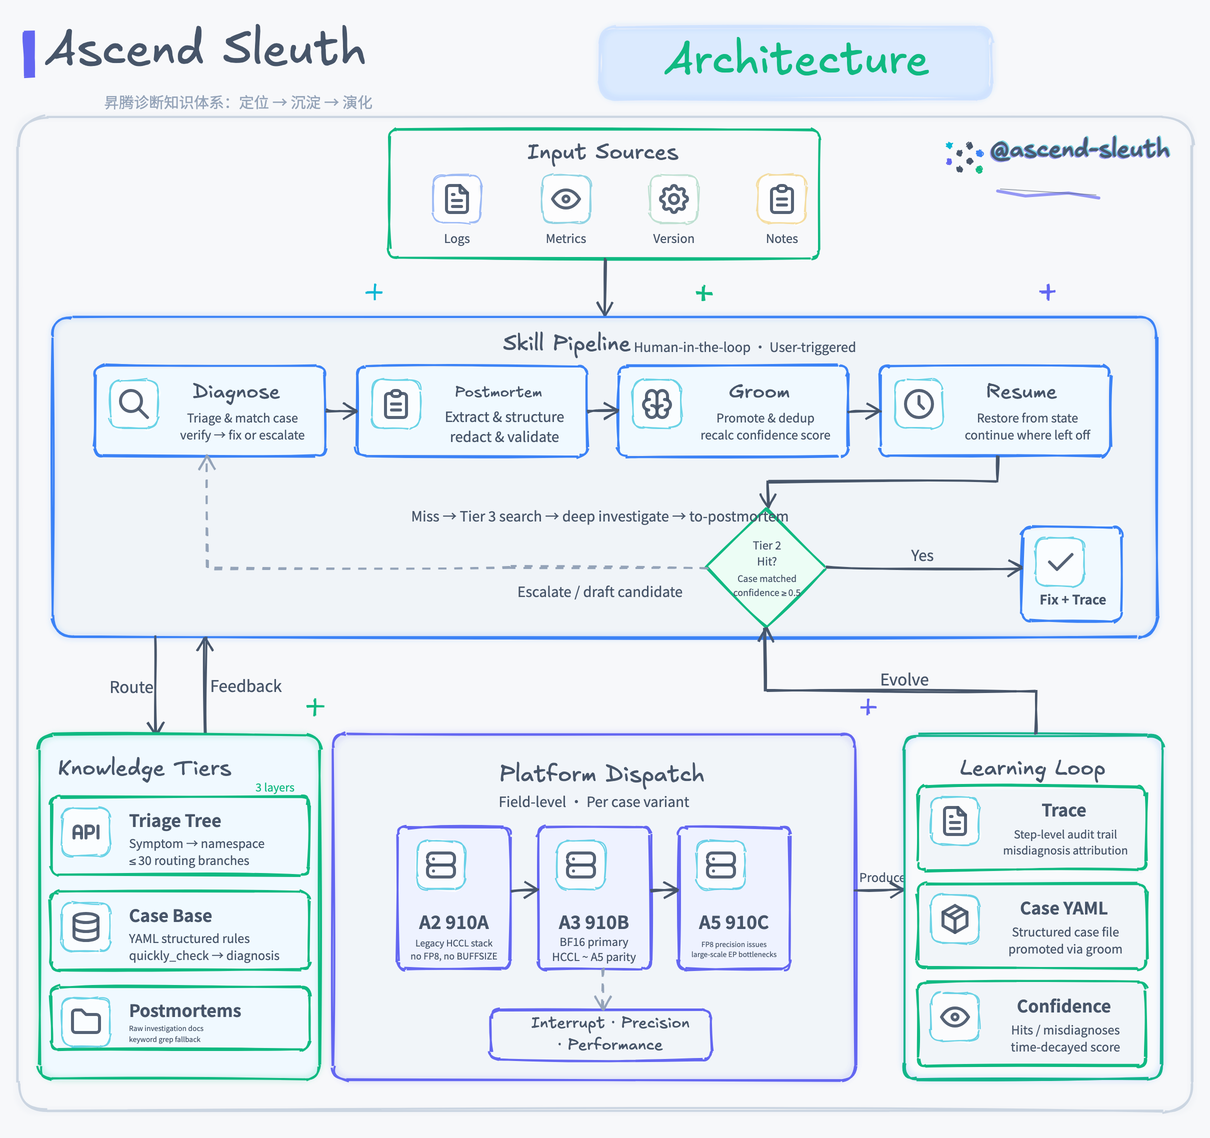
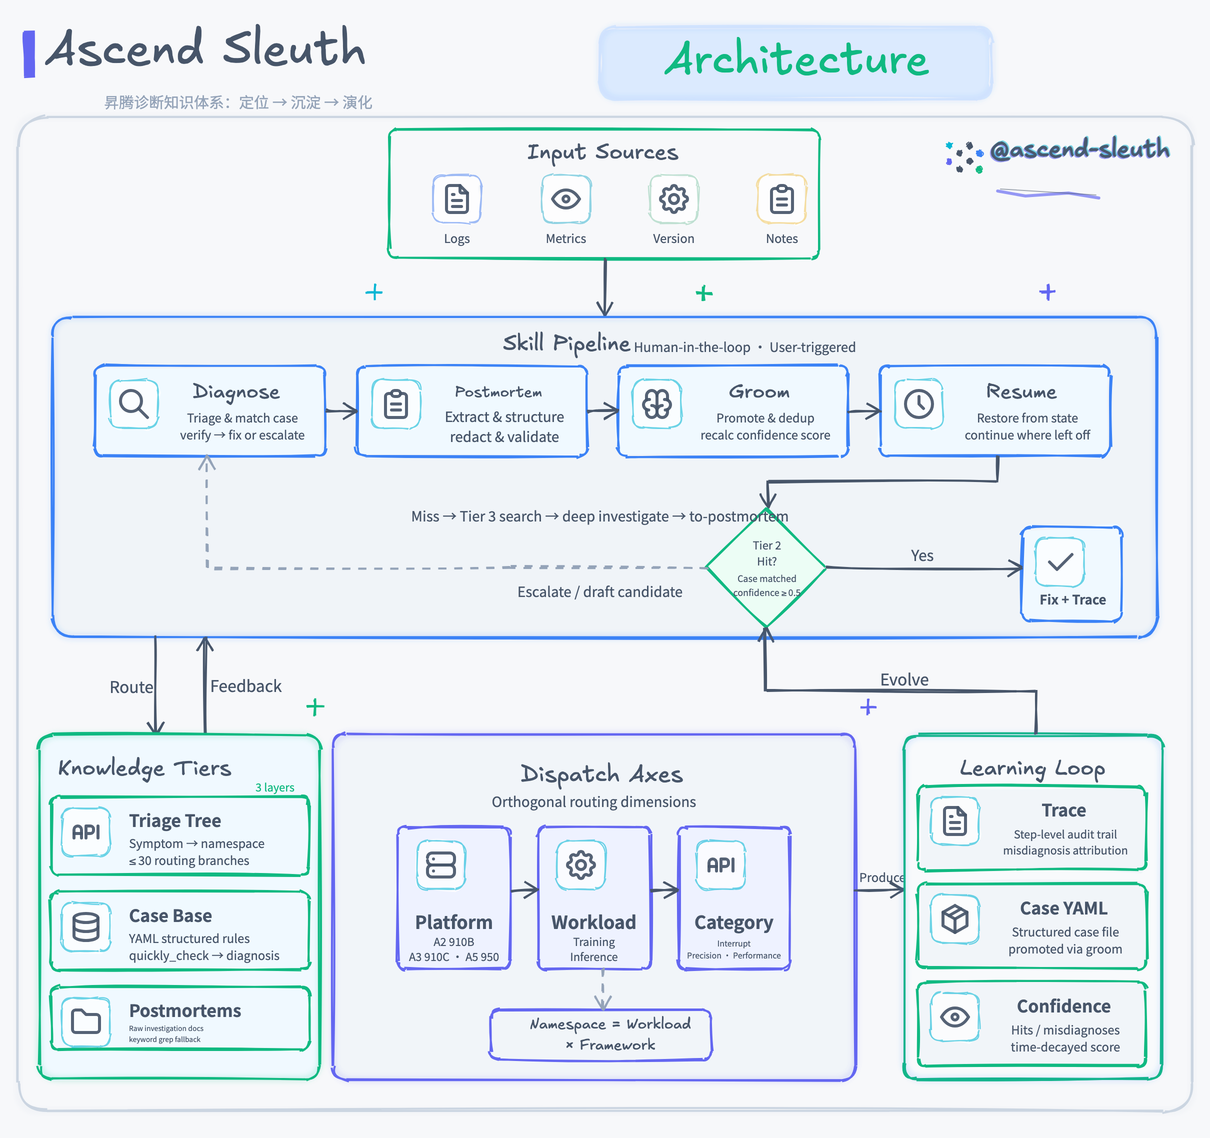
Fix platform mapping and update architecture diagram
- Correct platform chips: A2=910B, A3=910C, A5=950
- Redesign center panel: "Platform Dispatch" → "Dispatch Axes" showing
  Platform / Workload / Category as orthogonal routing dimensions
- Update all YAML, Markdown, and fixture references to new platform names
- Rename knowledge/platforms/ files to match corrected naming

diff --git a/skills/diagnose/references/platform-dispatch.md b/skills/diagnose/references/platform-dispatch.md
@@ -8,14 +8,14 @@ agent 在加载 Tier 2 候选时，同时加载匹配平台的 `knowledge/platfo
 
 ```yaml
 diagnosis:
-  - platforms: ["A5-910C", "A3-910B"]
+  - platforms: ["A5-950", "A3-910C"]
     steps:
       - command_template: "env | grep HCCL_BUFFSIZE"
         expected: ">= 4194304"
         fix_on_mismatch: "export HCCL_BUFFSIZE=4194304"
         rollback: "unset HCCL_BUFFSIZE"
 
-  - platforms: ["A2-910A"]
+  - platforms: ["A2-910B"]
     steps:
       - command_template: "cat /proc/driver/npu/version"
         expected: ">= 23.0"
@@ -26,14 +26,14 @@ diagnosis:
 
 | 平台 | 芯片 | 关键差异 |
 |---|---|---|
-| A2 | 910A | HCCL 行为与 A3/A5 完全不同；无 `HCCL_BUFFSIZE`；FP8 不支持 |
-| A3 | 910B | HCCL 与 A5 近似；BF16 主力 |
-| A5 | 910C | FP8 精度问题只在 A5 出现；大规模 EP 通信瓶颈 |
+| A2 | 910B | HCCL 行为与 A3/A5 完全不同；无 `HCCL_BUFFSIZE`；FP8 不支持 |
+| A3 | 910C | HCCL 与 A5 近似；BF16 主力 |
+| A5 | 950 | FP8 精度问题只在 A5 出现；大规模 EP 通信瓶颈 |
 
 ## 检测当前平台
 
 ```bash
-npu-smi info | grep -i '910'    # 910A / 910B / 910C
+npu-smi info | grep -i '910\|950'    # 910B / 910C / 950
 ```
 
 检测结果填入 case 的 `platforms` 匹配逻辑。无平台字段的 case 视为全平台通用。

diff --git a/knowledge/platforms/a3-910c.md b/knowledge/platforms/a3-910c.md
@@ -1,4 +1,4 @@
-# A3 (910B) 平台背景
+# A3 (910C) 平台背景
 
 主力训练架构。HCCL 行为与 A5 近似，BF16 是主力精度。
 
@@ -6,8 +6,8 @@
 
 - **HCCL**：支持 `HCCL_BUFFSIZE`，行为与 A5 基本一致——多数通信 case 的 A3/A5 分支可共享
 - **精度**：BF16 主力；FP8 支持有限
-- **规模**：常见于中等规模训练（world_size 8-64）
+- **规模**：常见于大规模训练（world_size 8-128）
 
 ## 与 A5 共享诊断
 
-HCCL buffer、allreduce 精度类问题，A3 与 A5 的 `diagnosis` 步骤通常相同，写在同一个 `platforms: ["A5-910C", "A3-910B"]` 分支即可。
+HCCL buffer、allreduce 精度类问题，A3 与 A5 的 `diagnosis` 步骤通常相同，写在同一个 `platforms: ["A5-950", "A3-910C"]` 分支即可。

diff --git a/CLAUDE.md b/CLAUDE.md
@@ -46,7 +46,7 @@ Version matching is **soft**: compat mismatch downgrades confidence but never ha
 
 ### Platform dispatch
 
-A2 (910A), A3 (910B), A5 (910C) differences are **field-level** within cases, not separate cases. A single case can have multiple `diagnosis` blocks keyed by `platforms`. Platform background knowledge in `knowledge/platforms/*.md`.
+A2 (910B), A3 (910C), A5 (950) differences are **field-level** within cases, not separate cases. A single case can have multiple `diagnosis` blocks keyed by `platforms`. Platform background knowledge in `knowledge/platforms/*.md`.
 
 Key platform facts:
 - A2: No `HCCL_BUFFSIZE`, no FP8 support. HCCL behavior radically different from A3/A5.

diff --git a/knowledge/platforms/a2-910b.md b/knowledge/platforms/a2-910b.md
@@ -1,0 +1,13 @@
+# A2 (910B) 平台背景
+
+昇腾中间代架构。HCCL 行为与 A3/A5 存在差异。
+
+## 关键差异
+
+- **HCCL**：与 A3/A5 行为不同。**不存在 `HCCL_BUFFSIZE` 参数**——A2 上的通信问题别查这个，查 NPU 驱动版本（`cat /proc/driver/npu/version`，期望 >= 23.0）
+- **精度**：**不支持 FP8**。FP8 相关 case 标注 `platforms` 时排除 A2
+- **通信**：拓扑规模受限，大规模 EP 场景罕见
+
+## 建库注意
+
+涉及 HCCL 的 case **必须**有 `platforms: ["A2-910B"]` 的独立 `diagnosis` 分支，不能假设 A2 行为与 A3/A5 一致。

diff --git a/knowledge/platforms/a5-950.md b/knowledge/platforms/a5-950.md
@@ -1,4 +1,4 @@
-# A5 (910C) 平台背景
+# A5 (950) 平台背景
 
 最新架构，大规模训练主力。FP8 和超大规模 EP 是 A5 独有问题的高发区。
 
@@ -10,5 +10,5 @@
 
 ## 建库注意
 
-- FP8 case 必须独立 `platforms: ["A5-910C"]` 分支
+- FP8 case 必须独立 `platforms: ["A5-950"]` 分支
 - 大规模通信 case 的 `rank_selector` 常用 `coordinator` 或 `by_topology`（不能只查 rank 0）

diff --git a/README.md b/README.md
@@ -47,7 +47,7 @@ npx skills@latest add pillumina/ascend-sleuth -g -a pi -a claude-code \
 ```
 /skill:diagnose
 
-客户 A5 (910C) 训练在 step ~3000 hang，all_to_all timeout，world_size=128。
+客户 A5 (950) 训练在 step ~3000 hang，all_to_all timeout，world_size=128。
 框架 mindspeed-llm 2.5.0。报错栈尾：[粘贴相关 rank 的日志片段]
 ```
 
